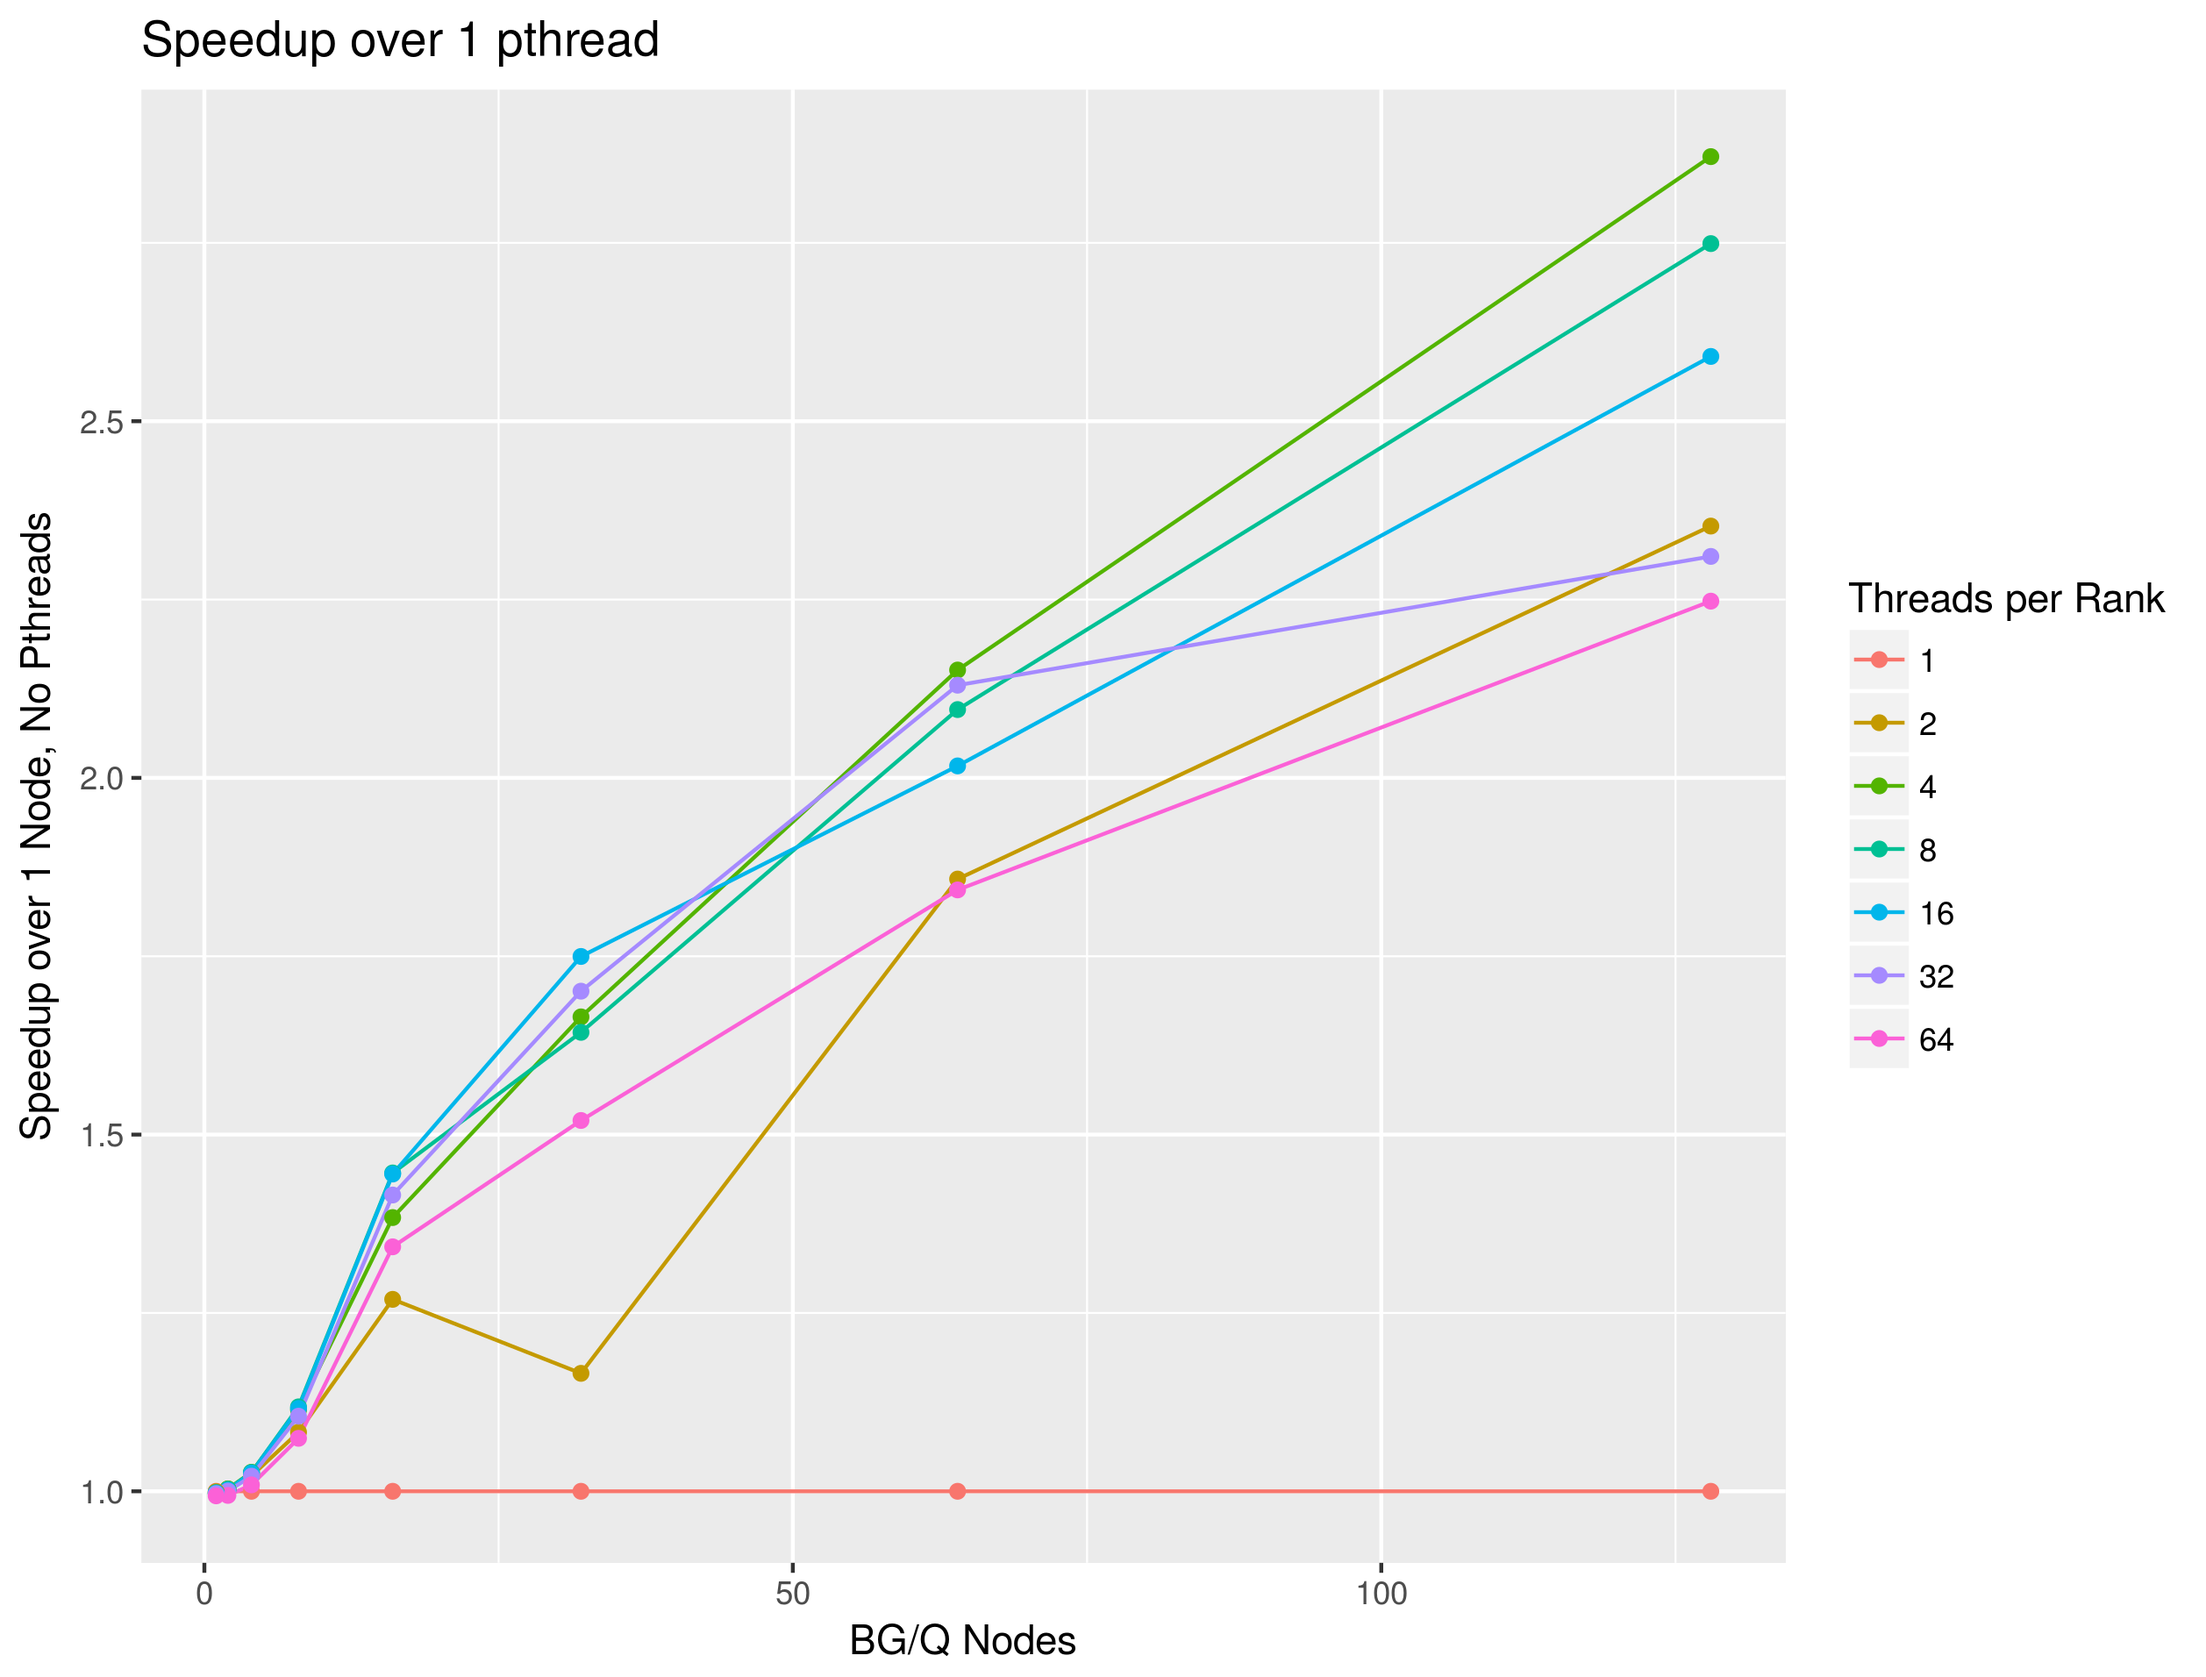
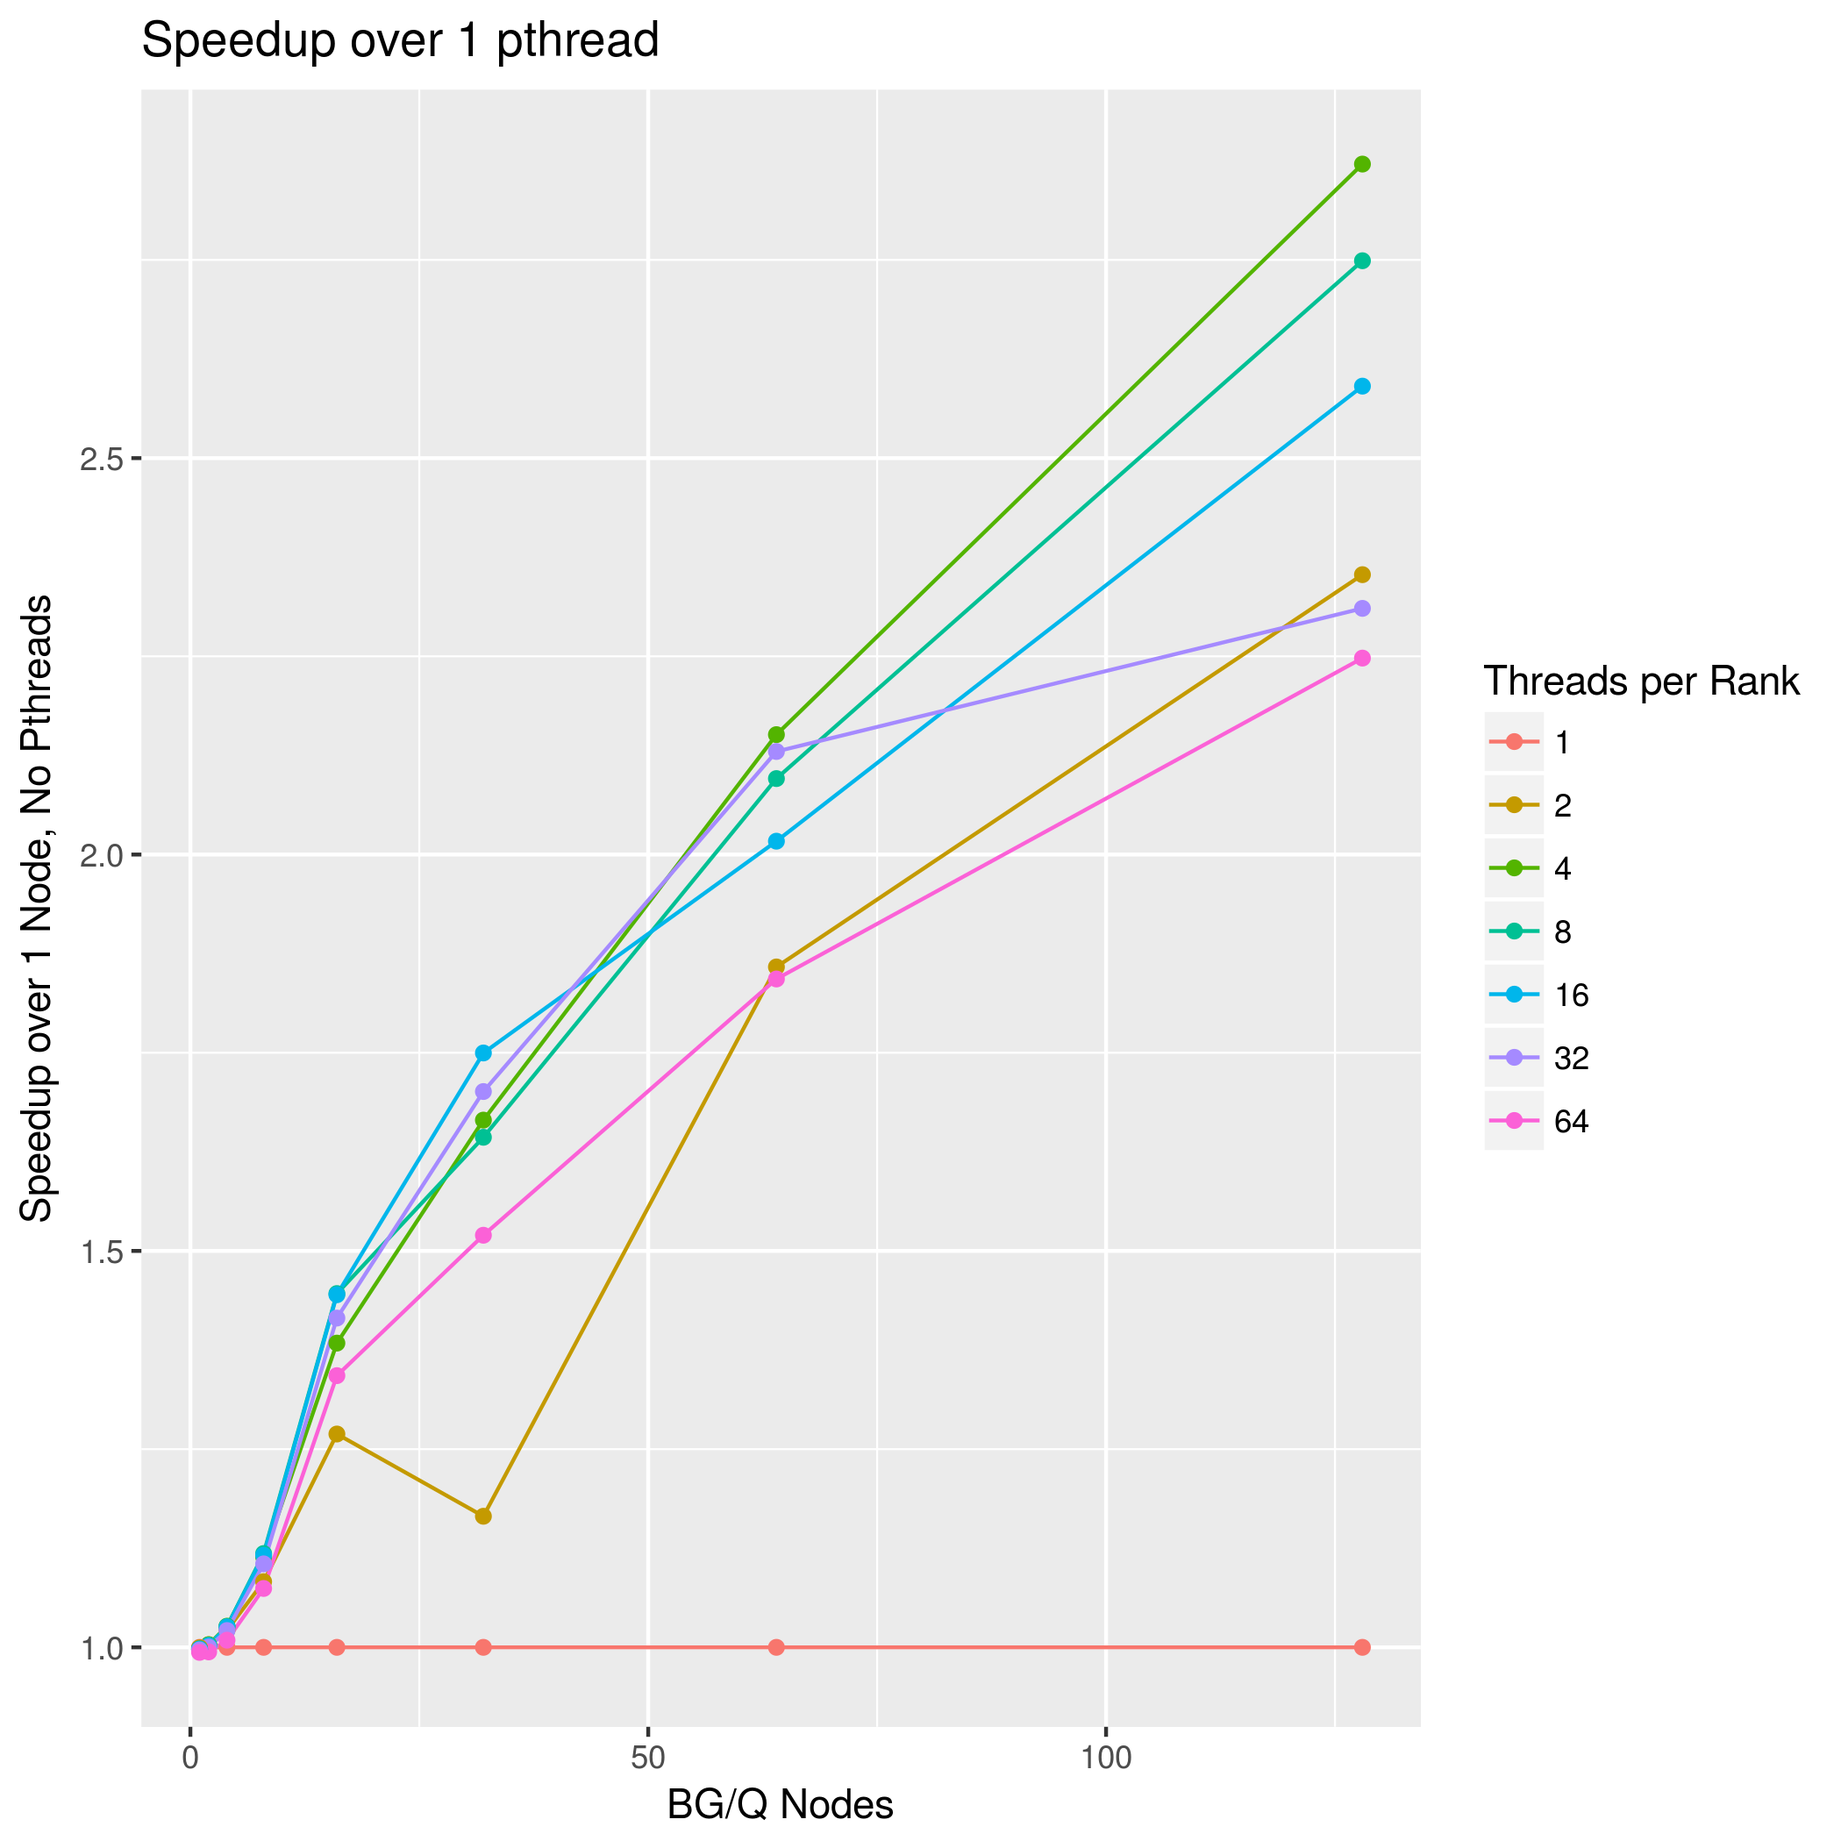
Updated the paper, changed plots to log2 scale

diff --git a/paper/approach.tex b/paper/approach.tex
@@ -24,8 +24,11 @@ memory costs.
 
 \subsection*{Serial Algorithm}
 The standard serial flocking simulation follows a familiar simulation
-format. Roughly, calculate the three rules for each bird, then apply
-the rules to each bird after all calculations are complete.
+format. Roughly, the algorithm calculates the three flocking rules for
+each bird, stores the result in a temporary field, then later applies
+the rules to each bird after all calculations are complete. The
+separation of movement calculation and positional upating guarantees
+that all movement occurs simultaneously within a time-step.
 
 \newpage
 \begin{verbatim}
@@ -46,7 +49,7 @@ the rules to each bird after all calculations are complete.
 
 \subsection*{Parallel Algorithm}
 The parallel implementation of the simulation operates in much the
-same way, with the provision that each process (MPI rank) is
+same way, with the provision that each process (MPI rank) is now
 responsible for a subset of birds of the flock. Processes must then
 communicate their local information to all other processes in order
 for update rules to include all applicable birds. This communication
@@ -54,12 +57,12 @@ is implemented using MPI\_Allgather; each rank recieves a complete
 array of all birds in the universe to use in computation, but is only
 responsible for calculating the position updates for its own agents.
 Because MPI\_Allgather is a collective operation, ranks are
-synchronized over each time-step, and therefore the simulation is
+synchronized over each time-step, and the simulation is therefore
 cycle-accurate.
 
 We extend this approach to include functionality for
 multithreading. Where each rank is assigned to a subset of agents,
-each constituent thread of a process is responsible for a subset of
+each constituent thread of a rank is responsible for a subset of
 its rank's agents. MPI communication is only performed by the parent
 thread, and threads are synchronized between time-steps.
 

diff --git a/paper/intro.tex b/paper/intro.tex
@@ -11,7 +11,8 @@ Alignment directs birds in the average direction of neighboring birds
 in the flock. Similarly, cohesion directs birds towards the average
 location of neighboring birds. Both of these principles ensure that
 the flock maintains coherency, so that individual birds are not lost
-from the flock. In contrast, separation directs birds away from
-neighboring birds which are too close. Separation then creates room
-within a flock, so that individual members are not crowded or
-co-located \cite{Reynolds}.
+from the flock. In contrast, separation directs birds away from any
+neighbors which are too close. This is implemented by the negation of
+the average of the normalized distance differentials. Separation then
+creates room within a flock to avoid crowding, co-location, and
+collision \cite{Reynolds}.

diff --git a/paper/performance.tex b/paper/performance.tex
@@ -1,3 +1,12 @@
 \subsection*{Multi-Processing}
 
+\includegraphics[scale=0.35]{total_time.pdf}
+\includegraphics[scale=0.35]{comm_time.pdf}
+\includegraphics[scale=0.35]{compute_time.pdf}
+\includegraphics[scale=0.35]{total_speedup.pdf}
+
 \subsection*{Multi-Threading}
+\includegraphics[scale=0.35]{thread_speedup.pdf}
+
+\subsection*{Weak Scaling}
+\includegraphics[scale=0.35]{weakscaling.pdf}

diff --git a/paper/flocking_simulator.tex b/paper/flocking_simulator.tex
@@ -2,12 +2,14 @@
 \usepackage{titling}
 \usepackage{fullpage}
 \usepackage{multicol}
-
+\usepackage{graphicx}
 \usepackage[american]{babel}
 \usepackage[babel=true]{csquotes}
 \usepackage[backend=bibtex]{biblatex}
 
 \addbibresource{references.bib}
+
+\graphicspath{{../data/plots/}}
 
 \title{Massively Parallel Agent-Based Flocking Simulation}
 \author{Kevin O'Neill and Mitchell Mellone}
